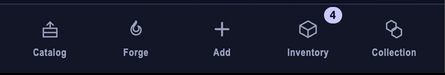
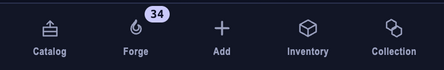
Recapture the #336 evidence at the chip-keying fix
Eight captures and the DOM ledger re-made at e1f9196: the lock chip no
longer dresses the thumb bar's always-open Collection segment, so the
flow captures show the four legitimate locks with Collection standing
bare beside them as the non-color contrast.

diff --git a/docs/evidence/336-flow-locks/README.md b/docs/evidence/336-flow-locks/README.md
@@ -3,8 +3,12 @@
 Source: issue #336, working tree on `t3code/implement-issue-336`. Launched
 this checkout with `npm run dev`; the provenance endpoint
 (`/-/dev/provenance`) returned this worktree, branch, and commit
-(`8fb5ff228c325e9b4059c890cb58fce2023cfc44`) before any capture, matching
-`git rev-parse` in the checkout.
+(`ec7731909b6fe5be3a514f863a69667b747d50eb`) before every capture, matching
+`git rev-parse` in the checkout. This is a recapture at the head after the
+chip-keying fix (`ec77319`): the lock chip now rides the gate each action
+declares, so the thumb bar's Collection — never flow-gated — wears no chip;
+the first capture pass (at `8fb5ff2`) predated that fix and its DOM ledger
+was wrong about Collection.
 
 The T3 preview viewport resize timed out on all three attempts (the bounded
 budget in [visual evidence](../../agents/visual-evidence.md)), so the phone
